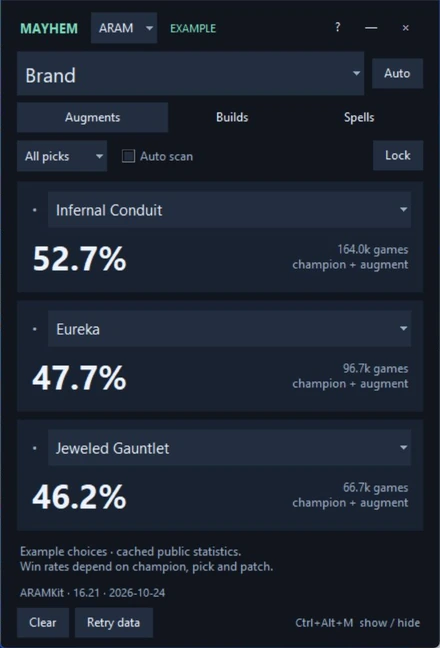
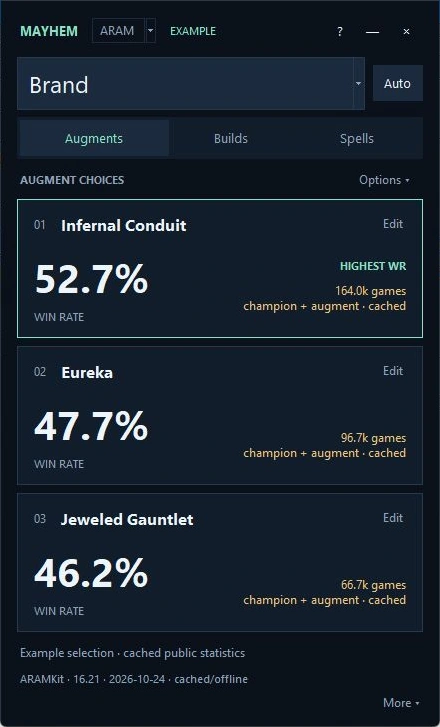
Show the polished companion in landing page screenshots

diff --git a/docs/index.html b/docs/index.html
@@ -50,19 +50,19 @@
         <figure class="app-preview">
           <figcaption><strong>Augment choices</strong><span>Champion-specific win rates for the three offers.</span></figcaption>
           <a class="preview-image" href="./assets/augment-choices.webp" aria-label="View the full-size augment choices screenshot">
-            <img src="./assets/augment-choices.webp" alt="Mayhem Companion showing three ARAM Mayhem augment choices with champion-specific win rates, game counts and source attribution." width="440" height="648" fetchpriority="high">
+            <img src="./assets/augment-choices.webp" alt="Mayhem Companion showing three ARAM Mayhem augment choices with champion-specific win rates, game counts and source attribution." width="440" height="727" fetchpriority="high">
           </a>
         </figure>
         <figure class="app-preview">
           <figcaption><strong>Champion select</strong><span>Available champions and summoner spell pairs.</span></figcaption>
           <a class="preview-image" href="./assets/champion-select.webp" aria-label="View the full-size champion select screenshot">
-            <img src="./assets/champion-select.webp" alt="Mayhem Companion showing available champion win rates and summoner spell-pair statistics." width="440" height="1007">
+            <img src="./assets/champion-select.webp" alt="Mayhem Companion showing available champion win rates and summoner spell-pair statistics." width="440" height="967">
           </a>
         </figure>
         <figure class="app-preview">
           <figcaption><strong>Item builds</strong><span>Core builds and follow-up item win rates.</span></figcaption>
           <a class="preview-image" href="./assets/item-builds.webp" aria-label="View the full-size item builds screenshot">
-            <img src="./assets/item-builds.webp" alt="Mayhem Companion showing item-build choices with item icons and sample statistics." width="440" height="1332">
+            <img src="./assets/item-builds.webp" alt="Mayhem Companion showing item-build choices with item icons and sample statistics." width="440" height="912">
           </a>
         </figure>
       </div>
